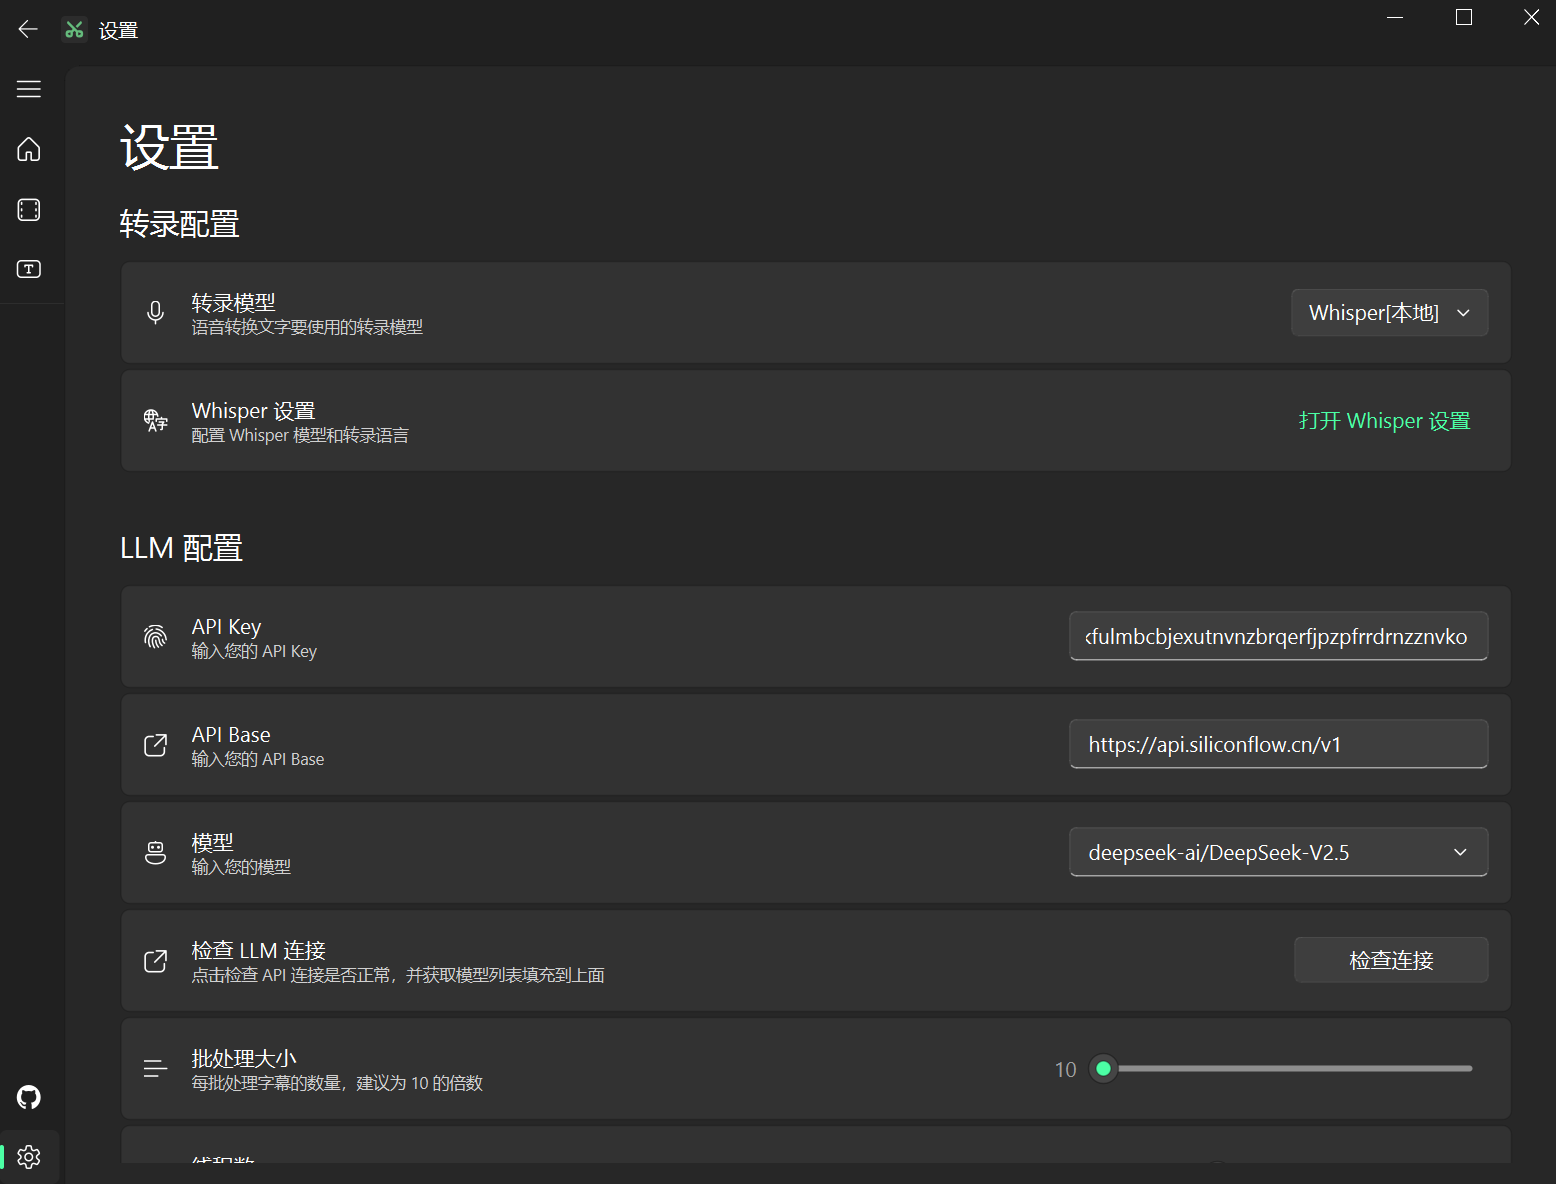
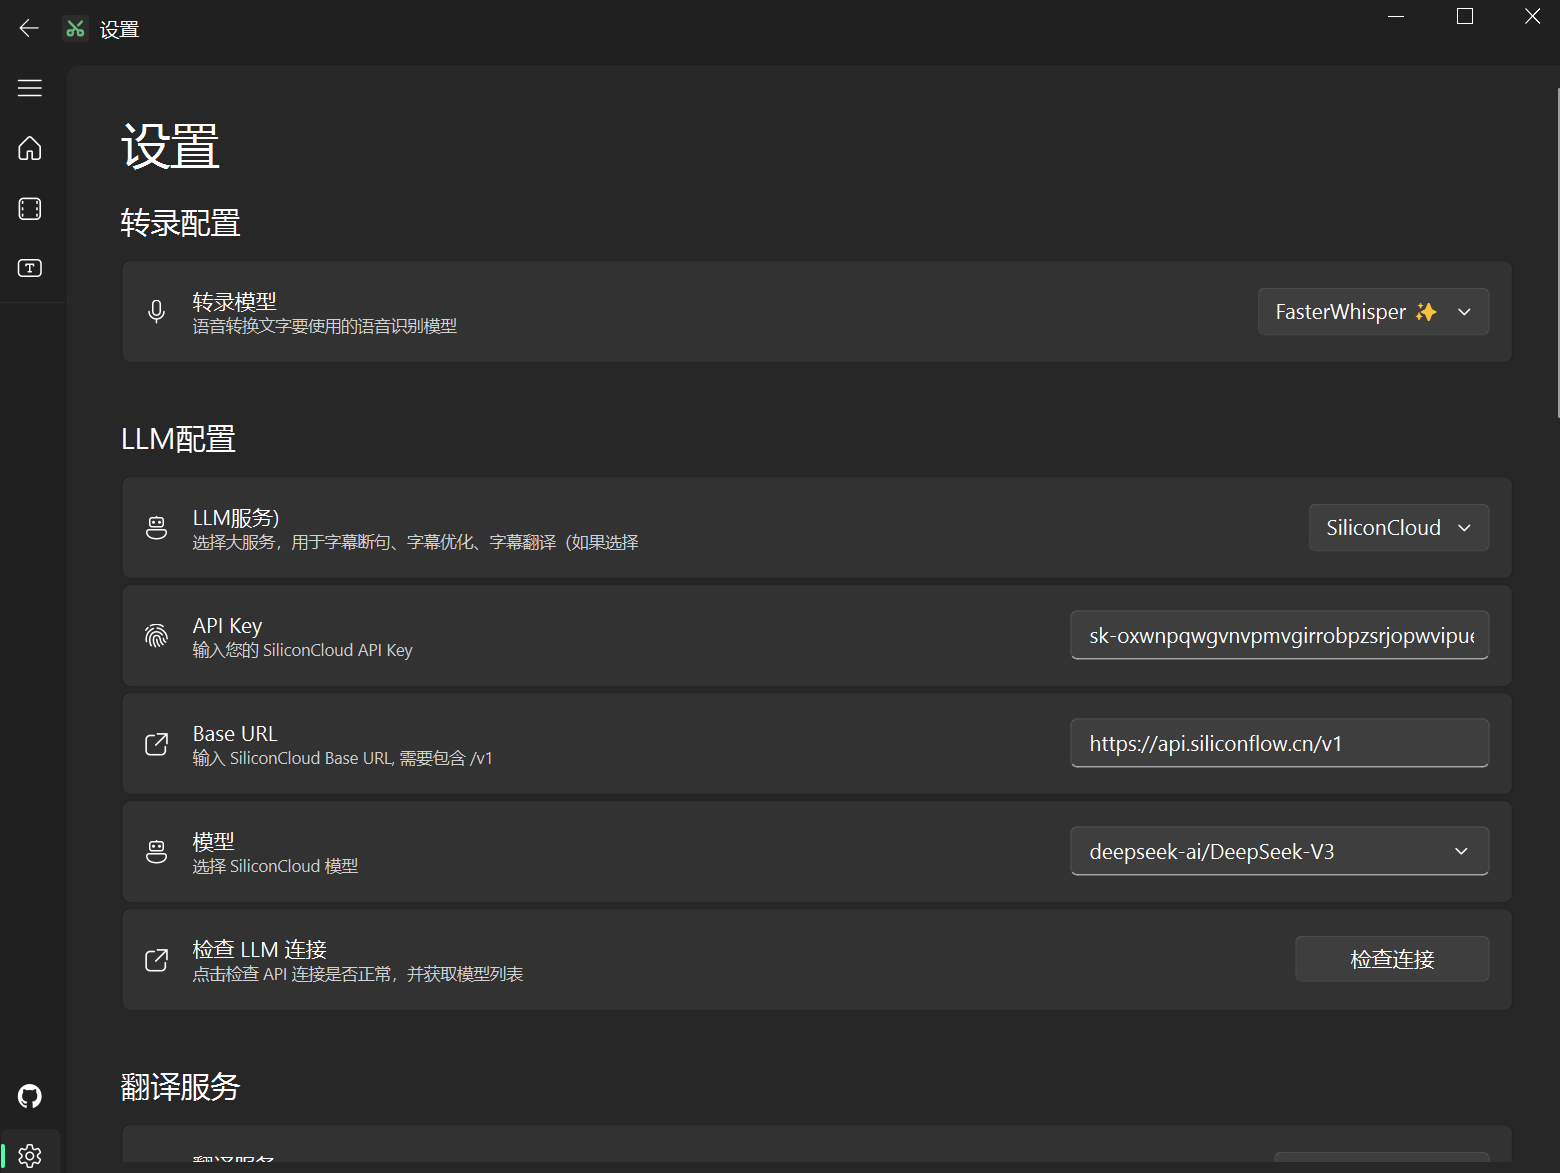
docs: Update LLM API configuration documentation and README

diff --git a/docs/llm_config.md b/docs/llm_config.md
@@ -1,3 +1,5 @@
+# SiliconFlow 大模型 API 配置
+
 1. 申请大模型API
 目前国内多家大模型厂商都提供了API接口，可以自行申请。
 也可以使用中转站，使用 OpenAI 或 Claude的API。
@@ -7,7 +9,7 @@
 
 ![api](images/get_api.png)
 
-注册获取API Key 后，在设置中获取API Key。
+注册后，在[设置](https://cloud.siliconflow.cn/account/ak)中获取API Key。
 
 ![config](images/api-setting.png)
 
@@ -17,11 +19,15 @@ API Key： 将 SiliconCloud 平台的密钥粘贴到此处。
 
 点击检查连接，“模型”设置栏会自动填充所有支持的模型名称。
 
-选择需要的模型名称，例如：deepseek-ai/DeepSeek-V3
+选择需要的模型名称，推荐：deepseek-ai/DeepSeek-V3
+
+> 2025 年 2 月 6 日起，未实名用户每日最多请求此模型 100 次
+
+根据官方要求该模型需要实名才能获取更多的调用次数。不想实名可以考虑使用其他中转站。
 
 还有两个重要参数需要配置:
 
-1. 批处理大小 (Batch Size)
+`1. 批处理大小 (Batch Size)`
 
 此参数决定每次向大模型发送的字幕条数。就像是一次性给大模型看多少句话:
 - 数值越大,携带的上下文信息越丰富
@@ -29,7 +35,7 @@ API Key： 将 SiliconCloud 平台的密钥粘贴到此处。
 
 🔸 推荐: 10条
 
-2. 线程数 (Thread Count)
+`2. 线程数 (Thread Count)`
 
 控制同时处理字幕的线程数量。形象地说,这就像餐厅的厨师数量:
 - 线程越多,处理速度越快
@@ -38,3 +44,42 @@ API Key： 将 SiliconCloud 平台的密钥粘贴到此处。
 建议根据实际情况灵活设置,在服务商允许的范围内尽可能调高。
 
 🔸 SiliconCloud API 推荐设置: 5个线程
+
+
+# 中转站配置
+
+
+1. 先在 [本项目的中转站](https://api.videocaptioner.cn) 注册账号
+,通过此链接注册默认赠送 $0.4 测试余额。
+
+2. 然后获取 API Key： [https://api.videocaptioner.cn/token](https://api.videocaptioner.cn/token)
+
+
+3. 在软件设置中配置 API Key 和 API 接口地址, 如下图：
+
+![api_setting](images/api-setting-2.png)
+
+BaseURL: `https://api.videocaptioner.cn/v1`
+
+
+API-key: `路上面获取的API Key`
+
+💡 模型选择建议 (本人在各质量层级中精选出的高性价比模型)： 
+
+ - 高质量之选： `claude-3-5-sonnet-20241022` (耗费比例：3) 
+
+ - 较高质量之选： `gemini-2.0-flash`、`deepseek-chat` (耗费比例：1) 
+
+ - 中质量之选： `gpt-4o-mini`、`gemini-1.5-flash` (耗费比例：0.15) 
+
+本站支持超高并发，软件中线程数直接拉满即可~ 处理速度非常快~
+
+
+`线程数 (Thread Count)`: 可直接拉满
+
+
+
+
+
+
+
